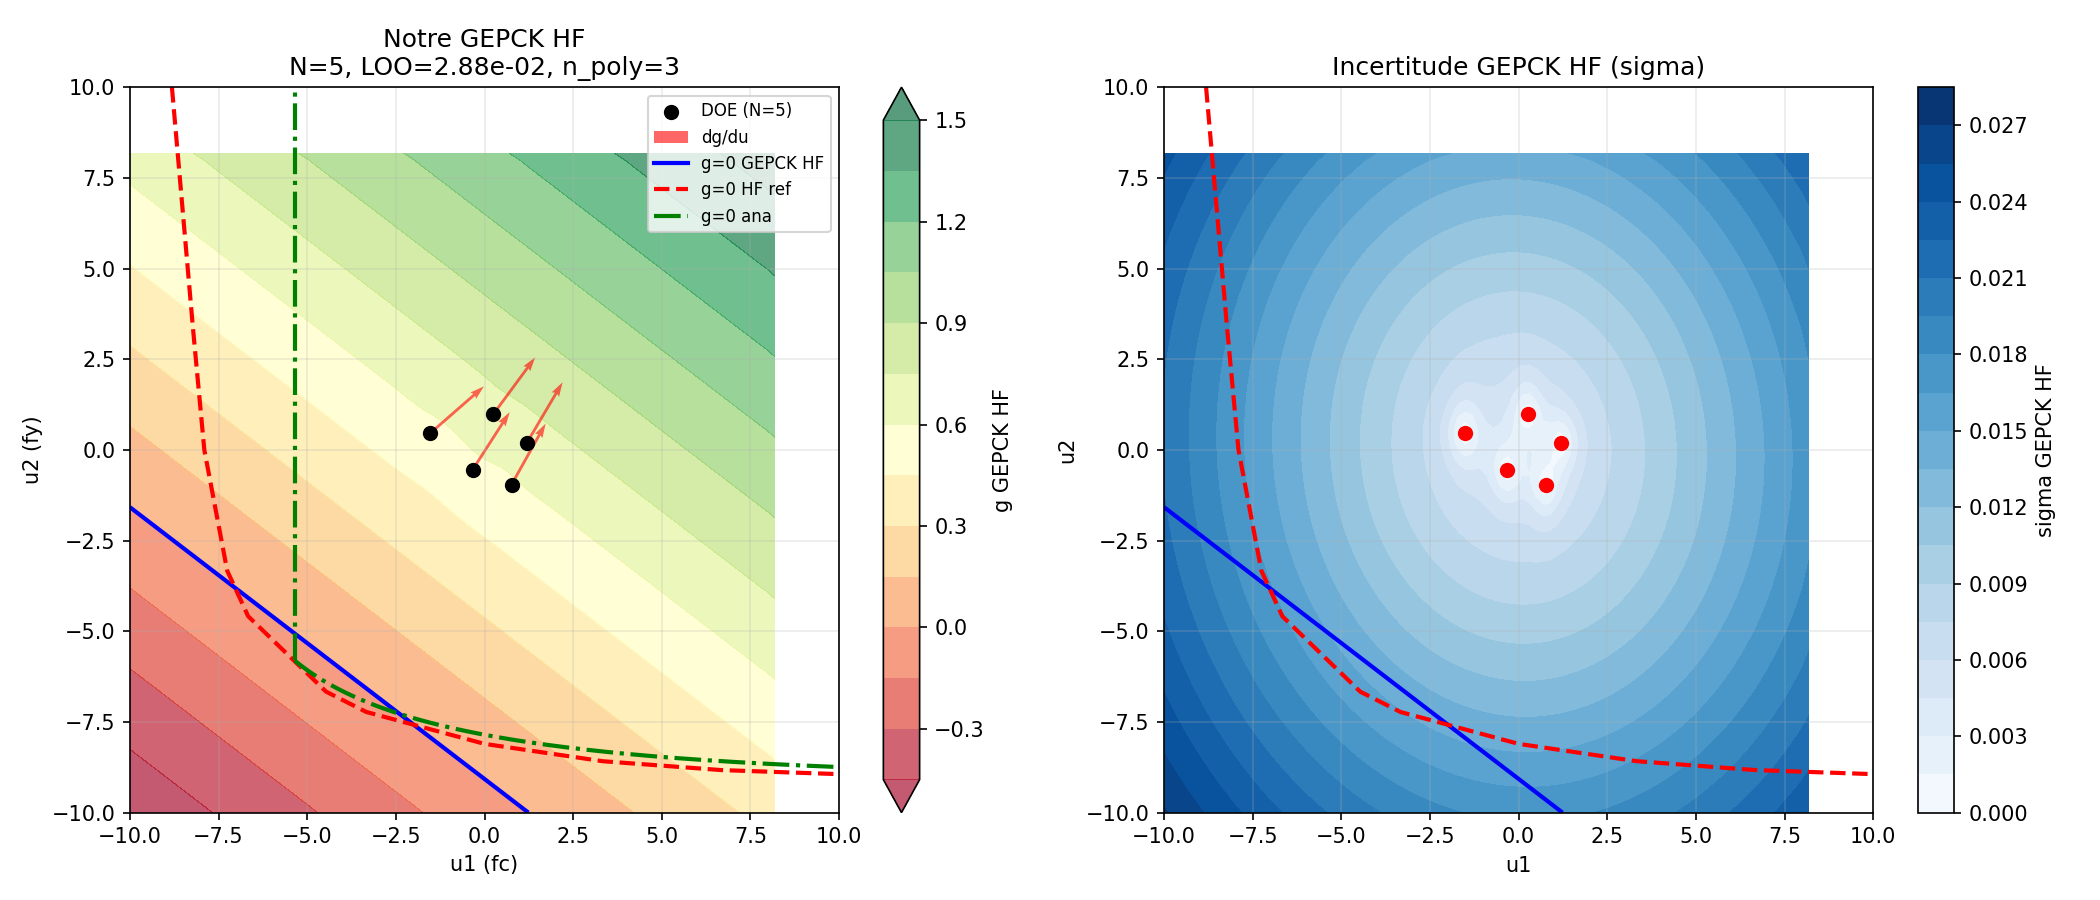
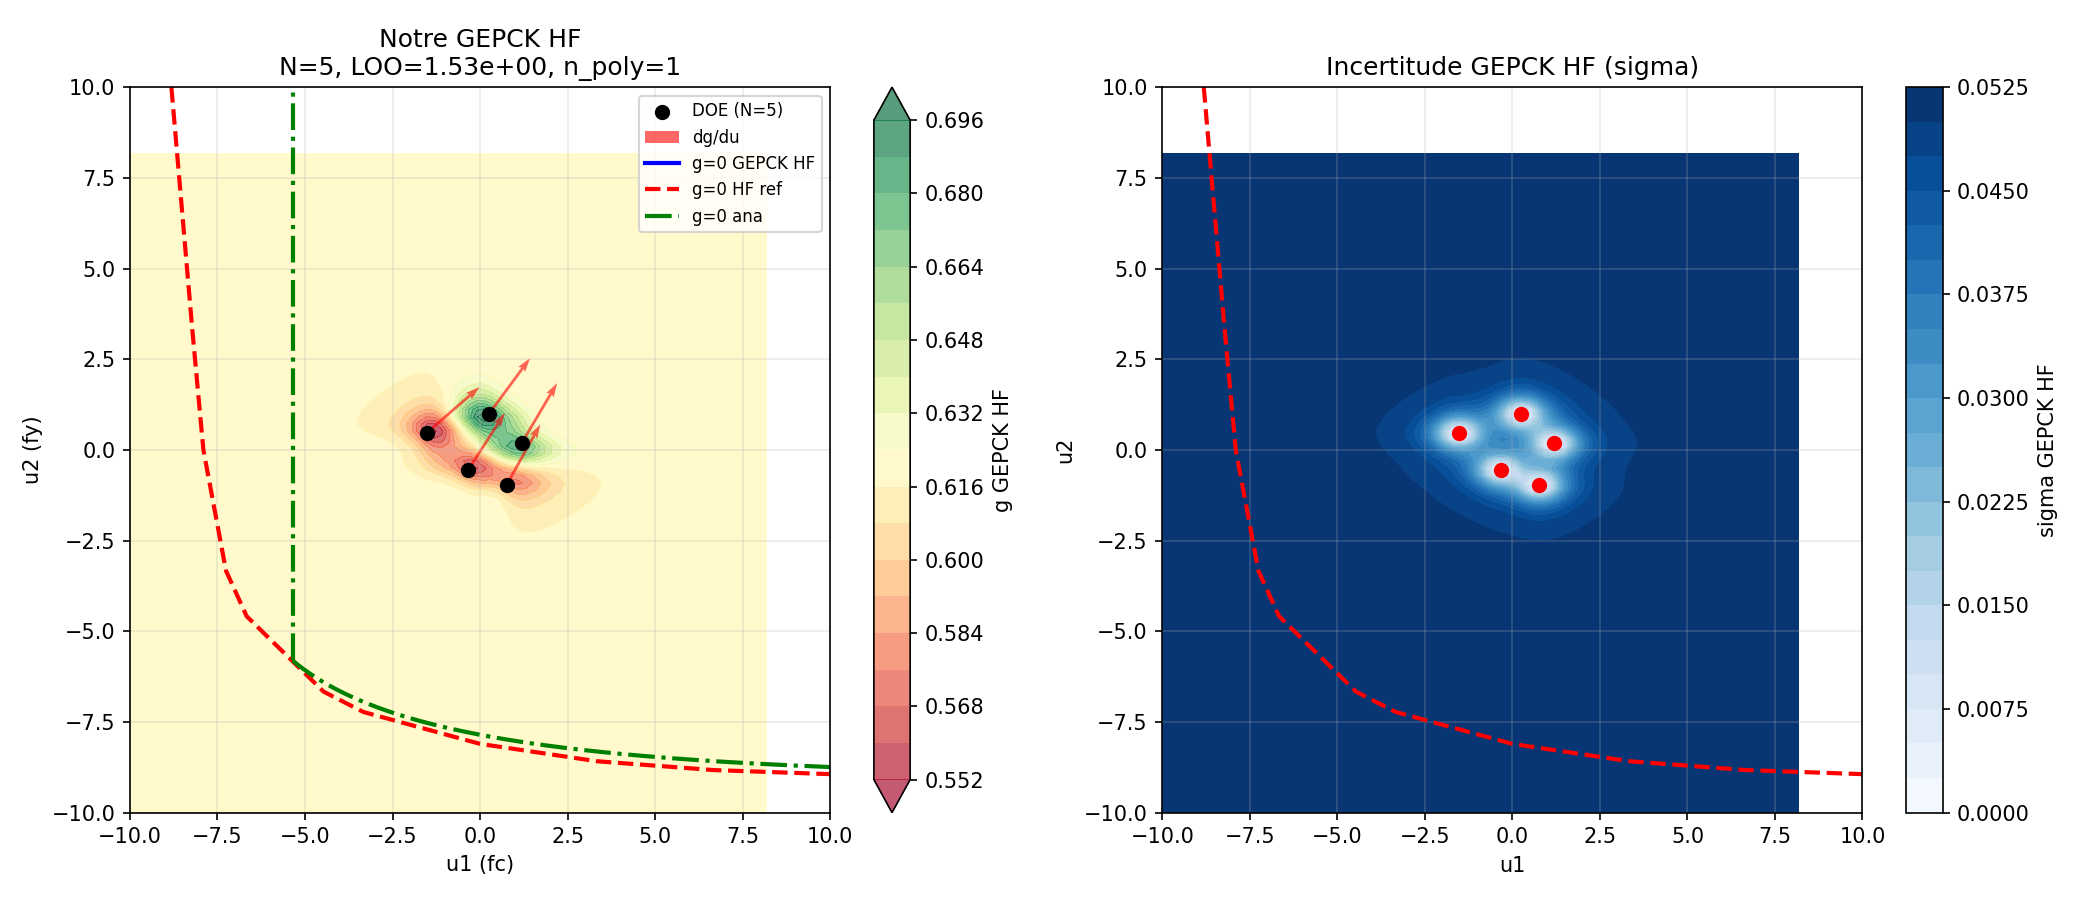
etat GEPCK validé officiellement sans retour a letat original

diff --git a/plot_eff_curve.py b/plot_eff_curve.py
@@ -1,0 +1,90 @@
+import matplotlib
+matplotlib.use('Agg')
+import matplotlib.pyplot as plt
+import numpy as np
+
+eff_vals = [
+    0.022738, 0.116216, 0.394108, 0.226506, 0.311843, 0.013889, 0.159311,
+    0.114528, 0.051804, 0.064209, 0.063315, 0.034005, 0.027382, 0.024314,
+    0.022232, 0.023833, 0.017862, 0.013140, 0.018953, 0.007505, 0.015873,
+    0.005464, 0.018420, 0.014544, 0.014290, 0.020109, 0.023948, 0.012350,
+    0.013875, 0.022289, 0.003490, 0.006704, 0.021550, 0.001182, 0.006345,
+    0.004682, 0.314293, 0.111995, 0.052394, 0.012394, 0.044847, 1.318629,
+    0.017949, 0.016586, 0.020631, 0.017345, 0.032121, 0.023111, 0.016470,
+    0.021402, 0.022381, 0.011812, 0.005423, 0.034761, 0.019877, 0.010479,
+]
+
+# theta après ajout du point n (= modèle utilisé pour calculer EFF(n+1))
+# extrait de output_0306_0741.txt — lignes LOO= 1 à 56
+theta_fc = [
+    0.44257466, 2.36039325, 9.2103542,  3.60979683, 8.10024531,
+    1.06458581, 2.47149113, 3.71847186, 3.64381212, 2.41476392,
+    2.41833035, 0.73958397, 0.71924181, 0.71499297, 0.72155916,
+    0.73683264, 0.7502881,  0.68166919, 0.70412542, 0.72201059,
+    0.74707378, 0.75954968, 0.76838902, 0.47016801, 0.47994752,
+    0.80273083, 0.49043851, 1.21542266, 0.46414182, 1.1755693,
+    1.14425564, 1.15190345, 1.04951423, 1.0611126,  0.53923892,
+    0.52886749, 61.71705569,62.33279773,63.19987632,62.30371817,
+    61.89973458,38.82129335,36.69255822,34.29842,   1.09859804,
+    1.10484466, 1.10581628, 1.11158777, 1.08720969, 58.36018465,
+    57.22555352,58.34802231,50.88050508,62.46215722,62.55491284,
+    58.2945871,
+]
+
+theta_fy = [
+    0.84613221, 3.16324024, 0.6579585,  7.0978205,  0.64527869,
+    0.52445027, 1.16943017, 2.59035696, 2.5956186,  1.21240335,
+    1.211678,   2.62895929, 2.62293047, 2.53803522, 2.53268675,
+    2.53951769, 2.51470499, 2.57841315, 2.67050935, 2.74326842,
+    2.84799171, 2.86626354, 3.02383371, 3.89830738, 3.91684452,
+    3.02829512, 3.9571559,  1.48403356, 2.91076062, 1.60436688,
+    1.62981386, 1.45455962, 1.45155465, 1.45556017, 1.58037655,
+    1.66958807, 99.98025609,99.98428054,99.99020894,99.93122735,
+    99.99957731,59.26636205,55.0347269, 52.52919843, 1.77868691,
+    1.77906638, 1.77701454, 1.78626388, 1.77134774, 82.79711929,
+    81.62297717,82.6632101, 72.7987043, 79.41039403,79.850051,
+    76.71946438,
+]
+
+n = list(range(1, len(eff_vals) + 1))
+tol = 0.001
+
+fig, axes = plt.subplots(3, 1, figsize=(10, 12))
+
+# --- Axe linéaire EFF ---
+ax = axes[0]
+ax.plot(n, eff_vals, 'o-', color='steelblue', markersize=4, lw=1.2)
+ax.axhline(tol, color='red', lw=1.5, ls='--', label=f'tol = {tol}')
+ax.set_xlabel('Point EFF ajouté (n)')
+ax.set_ylabel('EFF')
+ax.set_title('EFF par itération — run 0306_0741 (sans protections kernel)')
+ax.legend()
+ax.grid(True, alpha=0.3)
+ax.set_xlim(1, len(n))
+
+# --- Axe log EFF ---
+ax2 = axes[1]
+ax2.semilogy(n, eff_vals, 'o-', color='darkorange', markersize=4, lw=1.2)
+ax2.axhline(tol, color='red', lw=1.5, ls='--', label=f'tol = {tol}')
+ax2.set_xlabel('Point EFF ajouté (n)')
+ax2.set_ylabel('EFF (log)')
+ax2.set_title('EFF par itération — échelle log')
+ax2.legend()
+ax2.grid(True, which='both', alpha=0.3)
+ax2.set_xlim(1, len(n))
+
+# --- Theta (log) ---
+ax3 = axes[2]
+ax3.semilogy(n, theta_fc, 'o-', color='seagreen',  markersize=4, lw=1.2, label=r'$\theta_{fc}$')
+ax3.semilogy(n, theta_fy, 's-', color='mediumpurple', markersize=4, lw=1.2, label=r'$\theta_{fy}$')
+ax3.set_xlabel('Point EFF ajouté (n)')
+ax3.set_ylabel('θ (log)')
+ax3.set_title('Hyperparamètre θ GEPCK après ajout du point n')
+ax3.legend()
+ax3.grid(True, which='both', alpha=0.3)
+ax3.set_xlim(1, len(n))
+
+plt.tight_layout()
+out = r"C:\_workingDir\_SF\test flexion\output\plot_eff_curve_0306_0741.png"
+plt.savefig(out, dpi=130)
+print(f"Sauvé : {out}")

diff --git a/AC_pure_flexion.py b/AC_pure_flexion.py
@@ -66,7 +66,7 @@ if __name__ == '__main__':
     # --------------------------------------------------------------------------- #
     # --------------------------------------------------------------------------- #
     # DEFINITION DU MODELE                                                        #
-    modele = 'PCKRG'
+    modele = 'GEPCK'
     do_EFF = True
     n0 = 5
     params_names = ['fc','fy']
@@ -1202,10 +1202,11 @@ if __name__ == '__main__':
             print(f"  EFF={f(u_opt)[0]:.6f} > {tol_EFF} -- u_opt={list(np.round(np.array(u_opt),3))}  sigmaG={_sigG:.6f}  muG={_muG:.6f}", flush=True)
             xt_eff.append(np.array(u_opt))
             # --- On reconstruit le modèle ---
-            g_val, grad_U, _ = run_HF(np.array(u_opt))
+            g_val = g_ot(ot.Point(u_opt))[0]
             xt = np.vstack([xt, [np.array(u_opt)]])
             yt = np.vstack([yt, [[g_val]]])
-            grad_val = np.array([grad_U])
+            grad_ot  = g_ot.gradient(ot.Point(u_opt))
+            grad_val = np.array([[grad_ot[i, 0] for i in range(n_var)]])
             all_grad = np.vstack([all_grad, grad_val])
             # --- Upgrade max_degree si assez de points ---
             _degree_avant = max_degree
@@ -1621,7 +1622,6 @@ if __name__ == '__main__':
     """
     DEBUT DE CODE
     """
-
     update_degree(n0)
     event, g_ot, sigma_func, xt, yt, all_grad = [None] * 6
     xt_eff = None

diff --git a/AC2_pure_flexion.py b/AC2_pure_flexion.py
@@ -106,7 +106,7 @@ if __name__ == '__main__':
     do_warmstart = False
 
     tol_FORM = 1.0                                    # précision acceptée par FORM
-    tol_all_modes = 0.01                              #comparaison entre deux modes   
+    tol_all_modes = 2.0                               #comparaison entre deux modes
     tol_warmstart = 0.2                          # nécessité de faire le warm_start
 
     # --------------------------------------------------------------------------- #
@@ -128,7 +128,7 @@ if __name__ == '__main__':
 
     # 3. EFF
     epsilon_factor = 2                               # eps = epsilon_factor * sigma
-    tol_EFF = 1e-3                                            # critere d'arret EFF
+    tol_EFF = 8e-3                                            # critere d'arret EFF
     u1_eff_min, u1_eff_max = -10.0, 10.0
     u2_eff_min, u2_eff_max = -10.0, 10.0
     n_max_EFF = 1000
